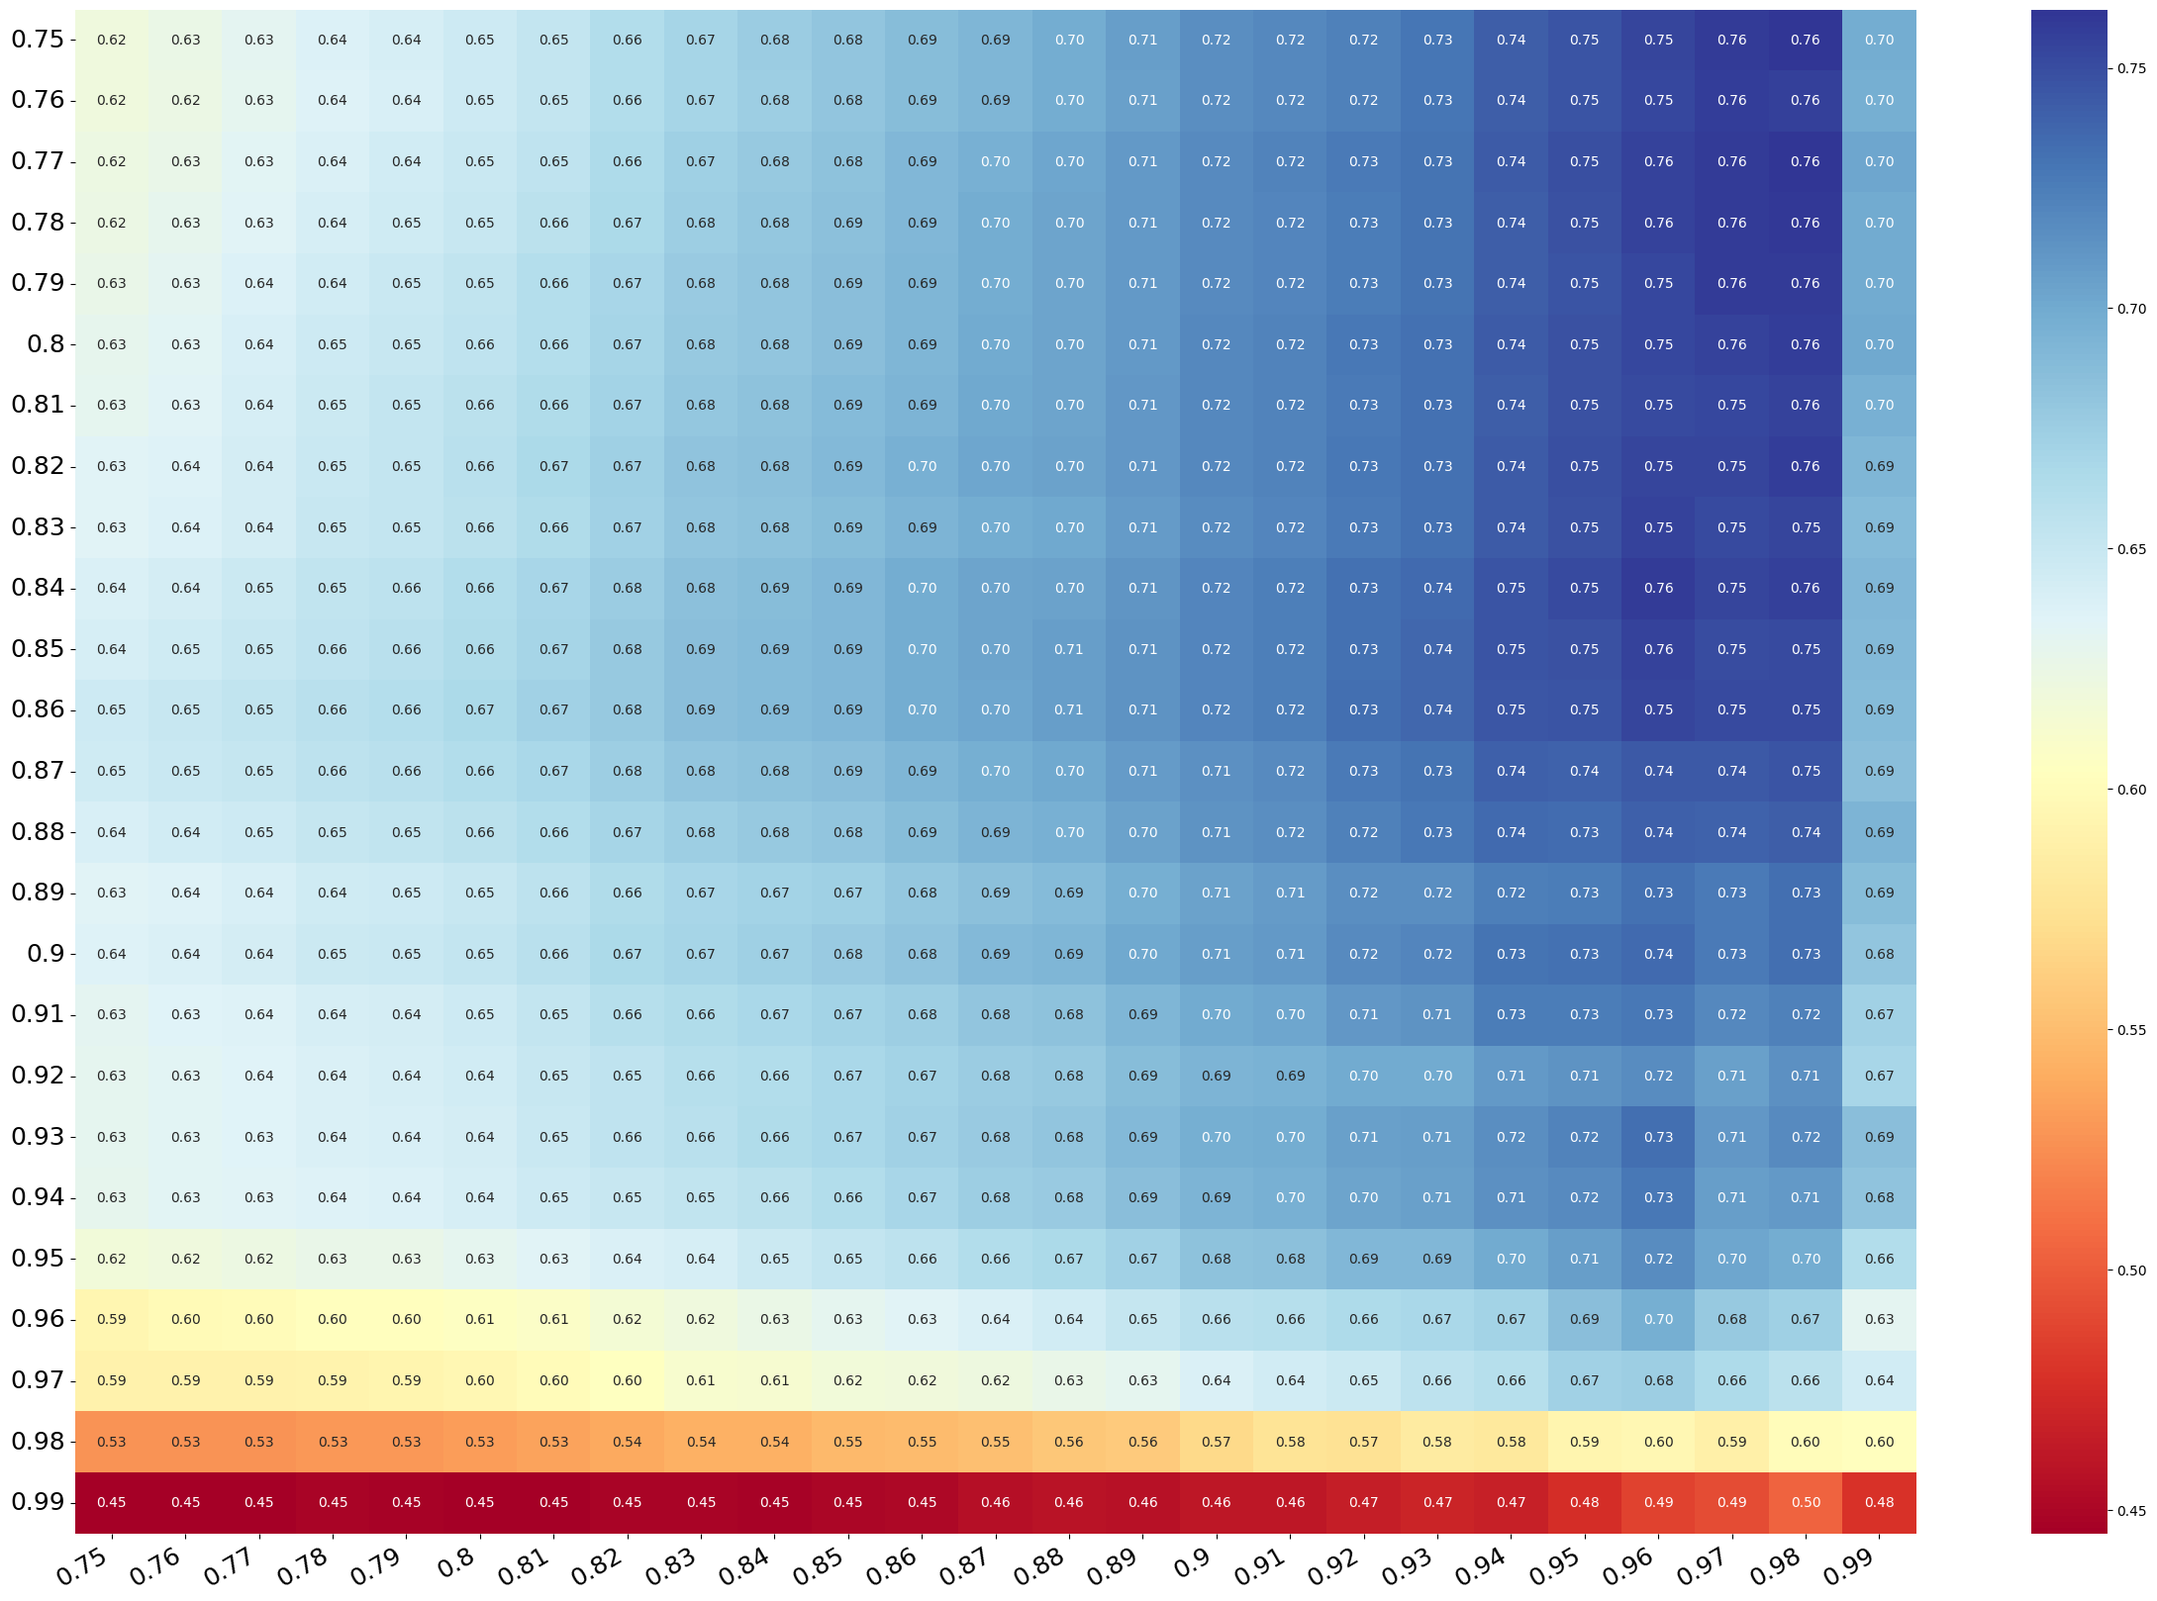
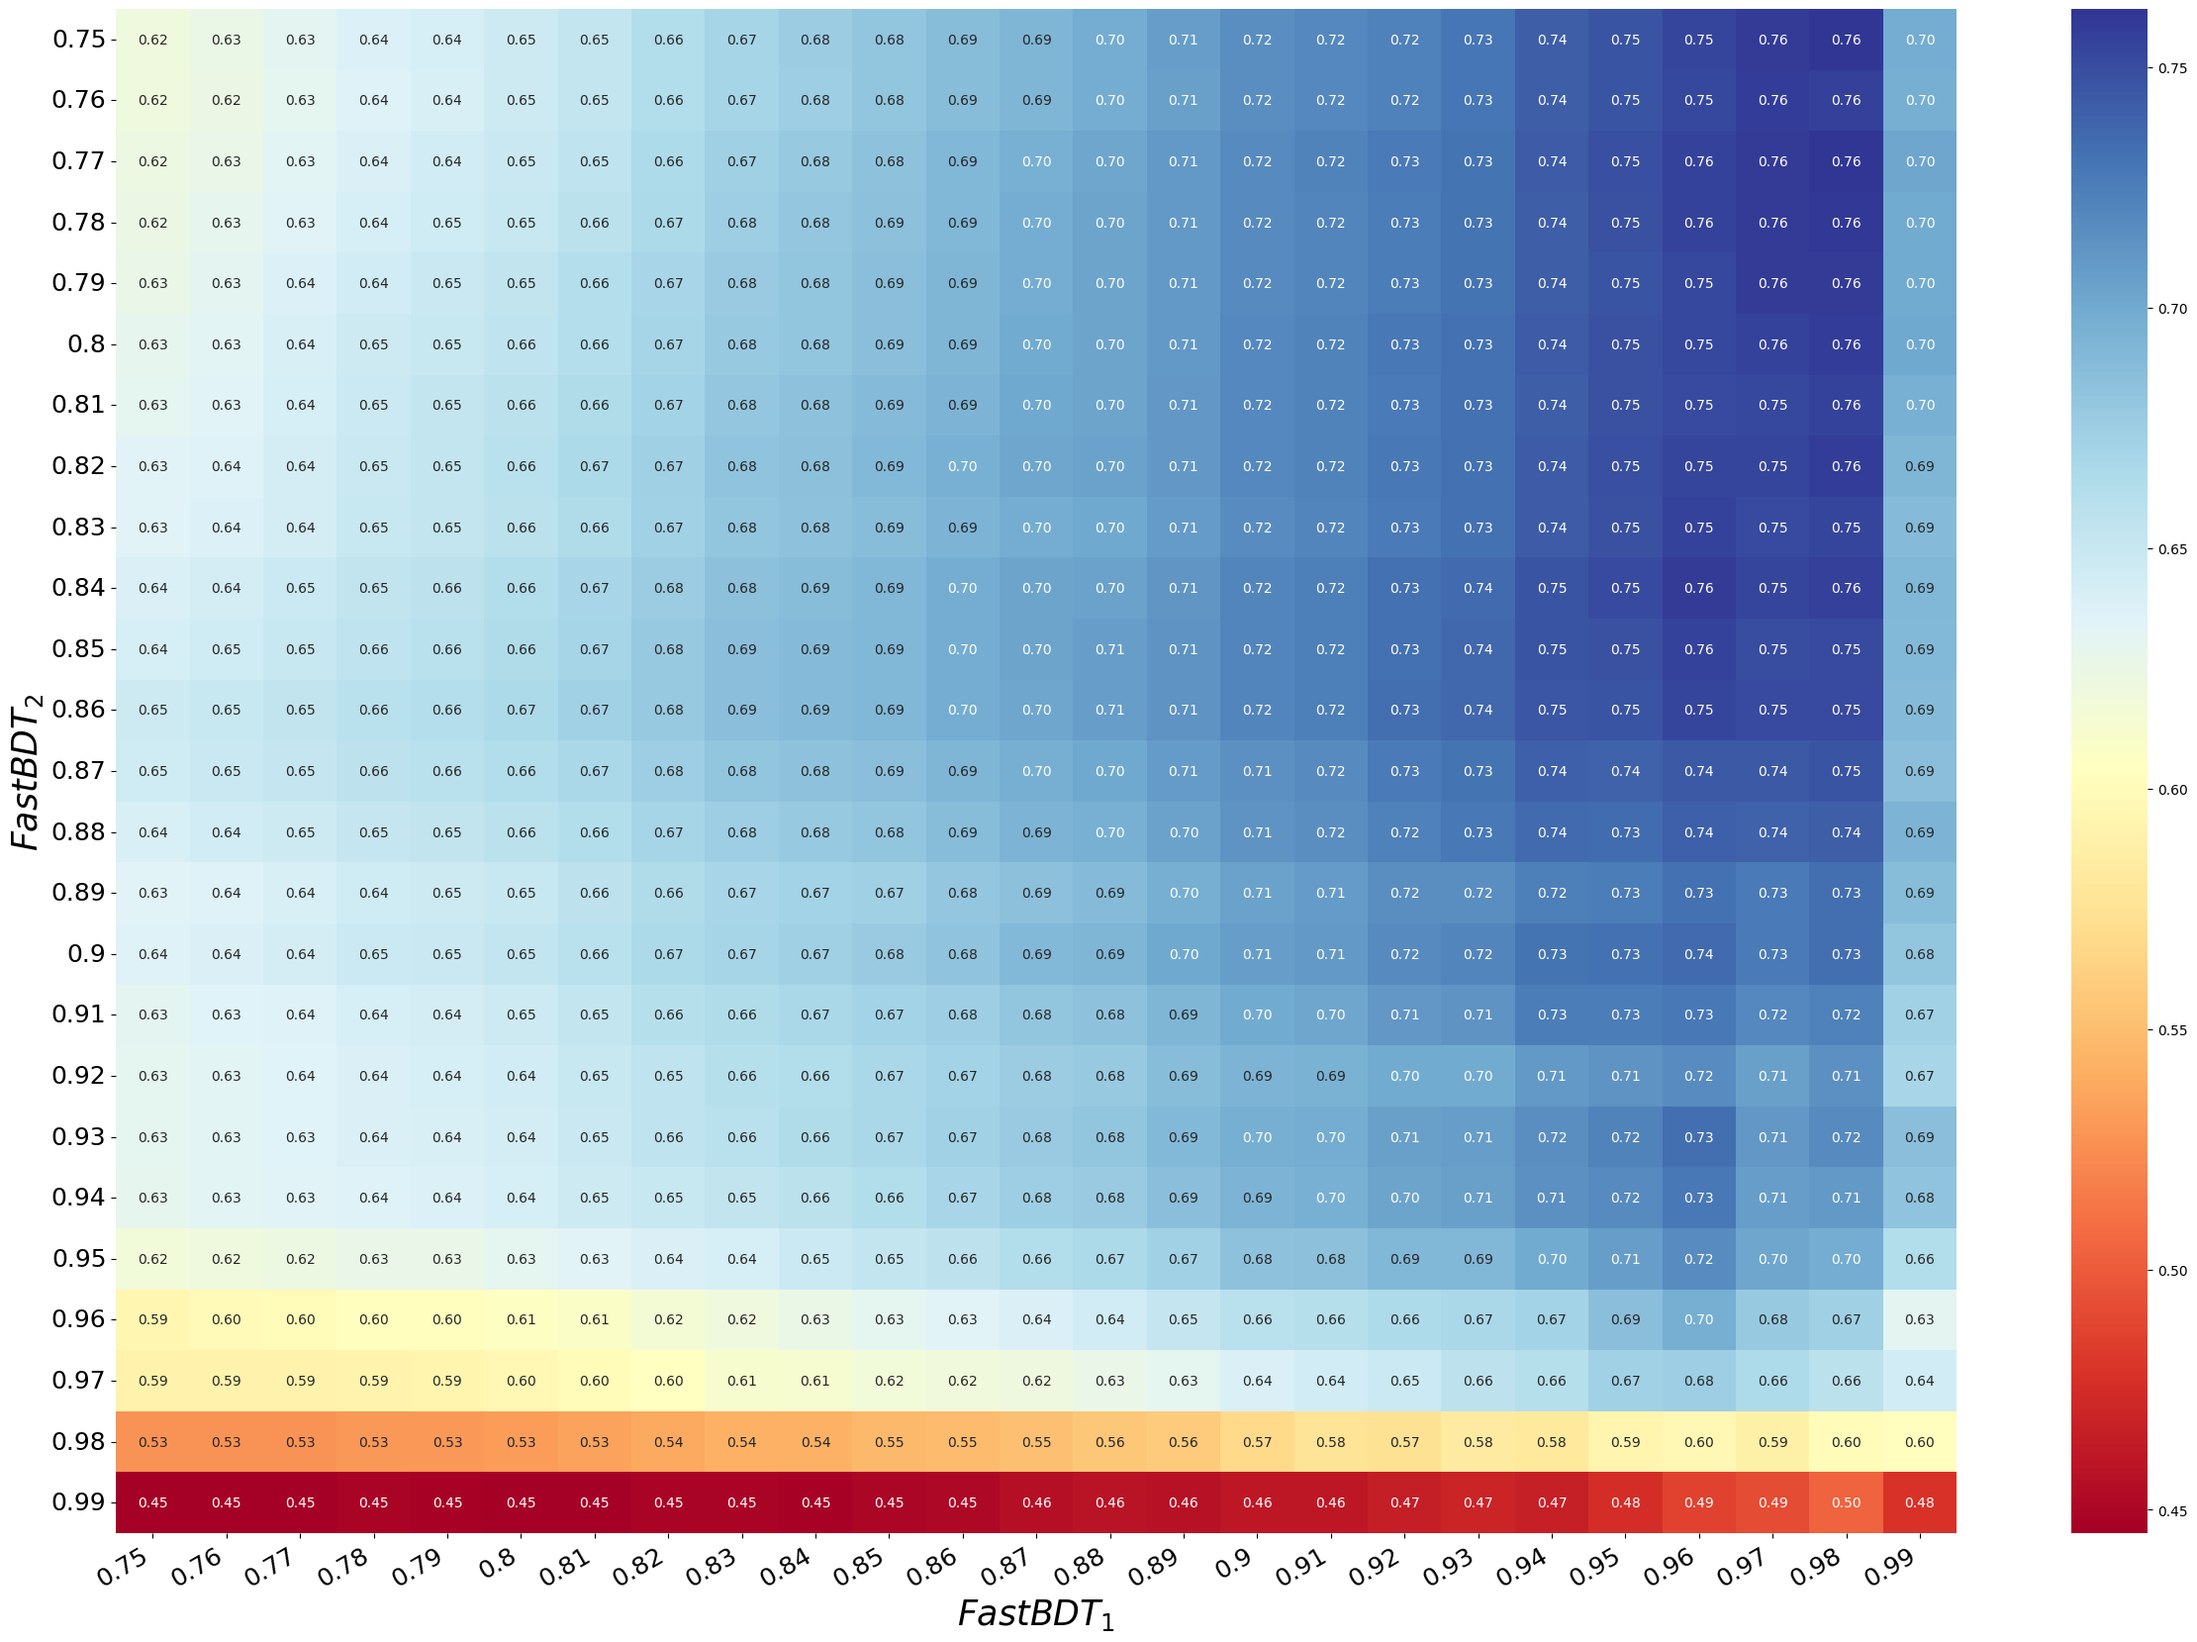
change python code

diff --git a/Belle2/Square_Confusion_Matrix.py b/Belle2/Square_Confusion_Matrix.py
@@ -1,0 +1,88 @@
+#!/usr/bin/env python
+import numpy as np
+import sys, os
+import math
+
+import seaborn as sn
+import pandas as pd
+import matplotlib.pyplot as plt
+
+
+confusion_matrix = pd.read_excel("./data.xlsx", header=None, index_col=None, nrows=30)
+#print(confusion_matrix)
+confusion_matrix.to_numpy()
+
+#axis_list = [r"$\tau^{\mp}\rightarrow\pi^{\mp}\nu$",r"$\tau^{\mp}\rightarrow\pi^{\mp}\pi^{\pm}\pi^{\mp}\nu$",r"$\tau^{\mp}\rightarrow\pi^{\mp}\pi^{\pm}\pi^{\mp}\pi^{0}\nu$",r"$\tau^{\mp}\rightarrow\pi^{\mp}\pi^{0}\nu$",r"$\tau^{\mp}\rightarrow\pi^{\mp}\pi^{0}\pi^{0}\nu$",r"$Z\rightarrow q \bar{q}$"]
+reco_list = [r"$B^{+}\rightarrow K^{+}\nu\bar{\nu}$",
+             r"$B^{+}\rightarrow K^{+}\pi^{0}\nu\bar{\nu}$",
+             r"$B^{+}\rightarrow K^{0}_{S}\pi^{+}\nu\bar{\nu}$",
+             r"$B^{+}\rightarrow K^{+}\pi^{-}\pi^{+}\nu\bar{\nu}$",
+             r"$B^{+}\rightarrow K^{0}_{S}\pi^{+}\pi^{0}\nu\bar{\nu}$",
+             r"$B^{+}\rightarrow K^{+}\pi^{-}\pi^{+}\pi^{0}\nu\bar{\nu}$",
+             r"$B^{+}\rightarrow K^{0}_{S}\pi^{+}\pi^{-}\pi^{+}\nu\bar{\nu}$",
+             r"$B^{+}\rightarrow K^{+}\pi^{-}\pi^{+}\pi^{-}\pi^{+}\nu\bar{\nu}$",
+             r"$B^{+}\rightarrow K^{0}_{S}\pi^{+}\pi^{-}\pi^{+}\pi^{0}\nu\bar{\nu}$",
+             r"$B^{+}\rightarrow K^{+}\pi^{0}\pi^{0}\nu\bar{\nu}$",
+             r"$B^{+}\rightarrow K^{0}_{S}\pi^{+}\pi^{0}\pi^{0}\nu\bar{\nu}$",
+             r"$B^{+}\rightarrow K^{+}\pi^{-}\pi^{+}\pi^{0}\pi^{0}\nu\bar{\nu}$",
+             r"$B^{+}\rightarrow K^{+}K^{-}K^{+}\nu\bar{\nu}$",
+             r"$B^{+}\rightarrow K^{+}K^{-}K^{0}_{S}\pi^{+}\nu\bar{\nu}$",
+             r"$B^{+}\rightarrow K^{+}K^{-}K^{+}\pi^{0}\nu\bar{\nu}$",
+             r"$B^{0}\rightarrow K^{0}_{S}\nu\bar{\nu}$",
+             r"$B^{0}\rightarrow K^{+}\pi^{-}\nu\bar{\nu}$",
+             r"$B^{0}\rightarrow K^{0}_{S}\pi^{0}\nu\bar{\nu}$",
+             r"$B^{0}\rightarrow K^{+}\pi^{-}\pi^{0}\nu\bar{\nu}$",
+             r"$B^{0}\rightarrow K^{0}_{S}\pi^{+}\pi^{-}\nu\bar{\nu}$",
+             r"$B^{0}\rightarrow K^{+}\pi^{-}\pi^{+}\pi^{-}\nu\bar{\nu}$",
+             r"$B^{0}\rightarrow K^{0}_{S}\pi^{+}\pi^{-}\pi^{0}\nu\bar{\nu}$",
+             r"$B^{0}\rightarrow K^{+}\pi^{-}\pi^{+}\pi^{-}\pi^{0}\nu\bar{\nu}$",
+             r"$B^{0}\rightarrow K^{0}_{S}\pi^{+}\pi^{-}\pi^{+}\pi^{-}\nu\bar{\nu}$",
+             r"$B^{0}\rightarrow K^{0}_{S}\pi^{0}\pi^{0}\nu\bar{\nu}$",
+             r"$B^{0}\rightarrow K^{+}\pi^{-}\pi^{0}\pi^{0}\nu\bar{\nu}$",
+             r"$B^{0}\rightarrow K^{0}_{S}\pi^{+}\pi^{-}\pi^{0}\pi^{0}\nu\bar{\nu}$",
+             r"$B^{0}\rightarrow K^{+}K^{-}K^{0}_{S}\nu\bar{\nu}$",
+             r"$B^{0}\rightarrow K^{+}K^{-}K^{+}\pi^{-}\nu\bar{\nu}$",
+             r"$B^{0}\rightarrow K^{+}K^{-}K^{0}_{S}\pi^{0}\nu\bar{\nu}$"
+             ]
+gen_list = [r"$B^{+}\rightarrow K^{+}\nu\bar{\nu}$",
+            r"$B^{+}\rightarrow K^{+}\pi^{0}\nu\bar{\nu}$",
+            r"$B^{+}\rightarrow K^{0}\pi^{+}\nu\bar{\nu}$",      
+            r"$B^{+}\rightarrow K^{+}\pi^{-}\pi^{+}\nu\bar{\nu}$",
+            r"$B^{+}\rightarrow K^{0}\pi^{+}\pi^{0}\nu\bar{\nu}$",
+            r"$B^{+}\rightarrow K^{+}\pi^{-}\pi^{+}\pi^{0}\nu\bar{\nu}$",
+            r"$B^{+}\rightarrow K^{0}\pi^{+}\pi^{-}\pi^{+}\nu\bar{\nu}$",   
+            r"$B^{+}\rightarrow K^{+}\pi^{-}\pi^{+}\pi^{-}\pi^{+}\nu\bar{\nu}$",
+            r"$B^{+}\rightarrow K^{0}\pi^{+}\pi^{-}\pi^{+}\pi^{0}\nu\bar{\nu}$",
+            r"$B^{+}\rightarrow K^{+}\pi^{0}\pi^{0}\nu\bar{\nu}$",
+            r"$B^{+}\rightarrow K^{0}\pi^{+}\pi^{0}\pi^{0}\nu\bar{\nu}$",
+            r"$B^{+}\rightarrow K^{+}\pi^{-}\pi^{+}\pi^{0}\pi^{0}\nu\bar{\nu}$",
+            r"$B^{+}\rightarrow K^{+}K^{-}K^{+}\nu\bar{\nu}$",
+            r"$B^{+}\rightarrow K^{+}K^{-}K^{0}\pi^{+}\nu\bar{\nu}$",
+            r"$B^{+}\rightarrow K^{+}K^{-}K^{+}\pi^{0}\nu\bar{\nu}$",
+            r"$B^{0}\rightarrow K^{0}\nu\bar{\nu}$",
+            r"$B^{0}\rightarrow K^{+}\pi^{-}\nu\bar{\nu}$",
+            r"$B^{0}\rightarrow K^{0}\pi^{0}\nu\bar{\nu}$",
+            r"$B^{0}\rightarrow K^{+}\pi^{-}\pi^{0}\nu\bar{\nu}$",
+            r"$B^{0}\rightarrow K^{0}\pi^{+}\pi^{-}\nu\bar{\nu}$",
+            r"$B^{0}\rightarrow K^{+}\pi^{-}\pi^{+}\pi^{-}\nu\bar{\nu}$",
+            r"$B^{0}\rightarrow K^{0}\pi^{+}\pi^{-}\pi^{0}\nu\bar{\nu}$",
+            r"$B^{0}\rightarrow K^{+}\pi^{-}\pi^{+}\pi^{-}\pi^{0}\nu\bar{\nu}$",
+            r"$B^{0}\rightarrow K^{0}\pi^{+}\pi^{-}\pi^{+}\pi^{-}\nu\bar{\nu}$",
+            r"$B^{0}\rightarrow K^{0}\pi^{0}\pi^{0}\nu\bar{\nu}$",
+            r"$B^{0}\rightarrow K^{+}\pi^{-}\pi^{0}\pi^{0}\nu\bar{\nu}$",
+            r"$B^{0}\rightarrow K^{0}\pi^{+}\pi^{-}\pi^{0}\pi^{0}\nu\bar{\nu}$",
+            r"$B^{0}\rightarrow K^{+}K^{-}K^{0}\nu\bar{\nu}$",
+            r"$B^{0}\rightarrow K^{+}K^{-}K^{+}\pi^{-}\nu\bar{\nu}$",
+            r"$B^{0}\rightarrow K^{+}K^{-}K^{0}\pi^{0}\nu\bar{\nu}$",
+            r"$others$"
+            ]
+
+
+df_cm = pd.DataFrame(confusion_matrix.values, index = [i for i in reco_list], columns = [i for i in gen_list])
+#df_cm = pd.DataFrame(confusion_matrix)
+
+plt.figure(figsize = (36,24))
+ax = sn.heatmap(df_cm, annot=True, cmap="YlGnBu")
+ax.set_xticklabels(ax.get_xticklabels(), rotation=45, fontsize = 18, horizontalalignment='right')
+ax.set_yticklabels(ax.get_yticklabels(), fontsize = 18)
+plt.savefig("conf.png", bbox_inches='tight')

diff --git a/TMVA/Plot_FOM_large.py b/TMVA/Plot_FOM_large.py
@@ -32,4 +32,6 @@ plt.figure(figsize = (30,20))
 ax = sn.heatmap(df_cm, annot=True, cmap='RdYlBu', fmt='.2f')
 ax.set_xticklabels(ax.get_xticklabels(), rotation=30, fontsize = 18, horizontalalignment='right')
 ax.set_yticklabels(ax.get_yticklabels(), rotation=0, fontsize = 18)
+plt.xlabel(r"$FastBDT_{1}$", fontsize=25)
+plt.ylabel(r"$FastBDT_{2}$", fontsize=25)
 plt.savefig("Matrix_large.png", bbox_inches='tight')
